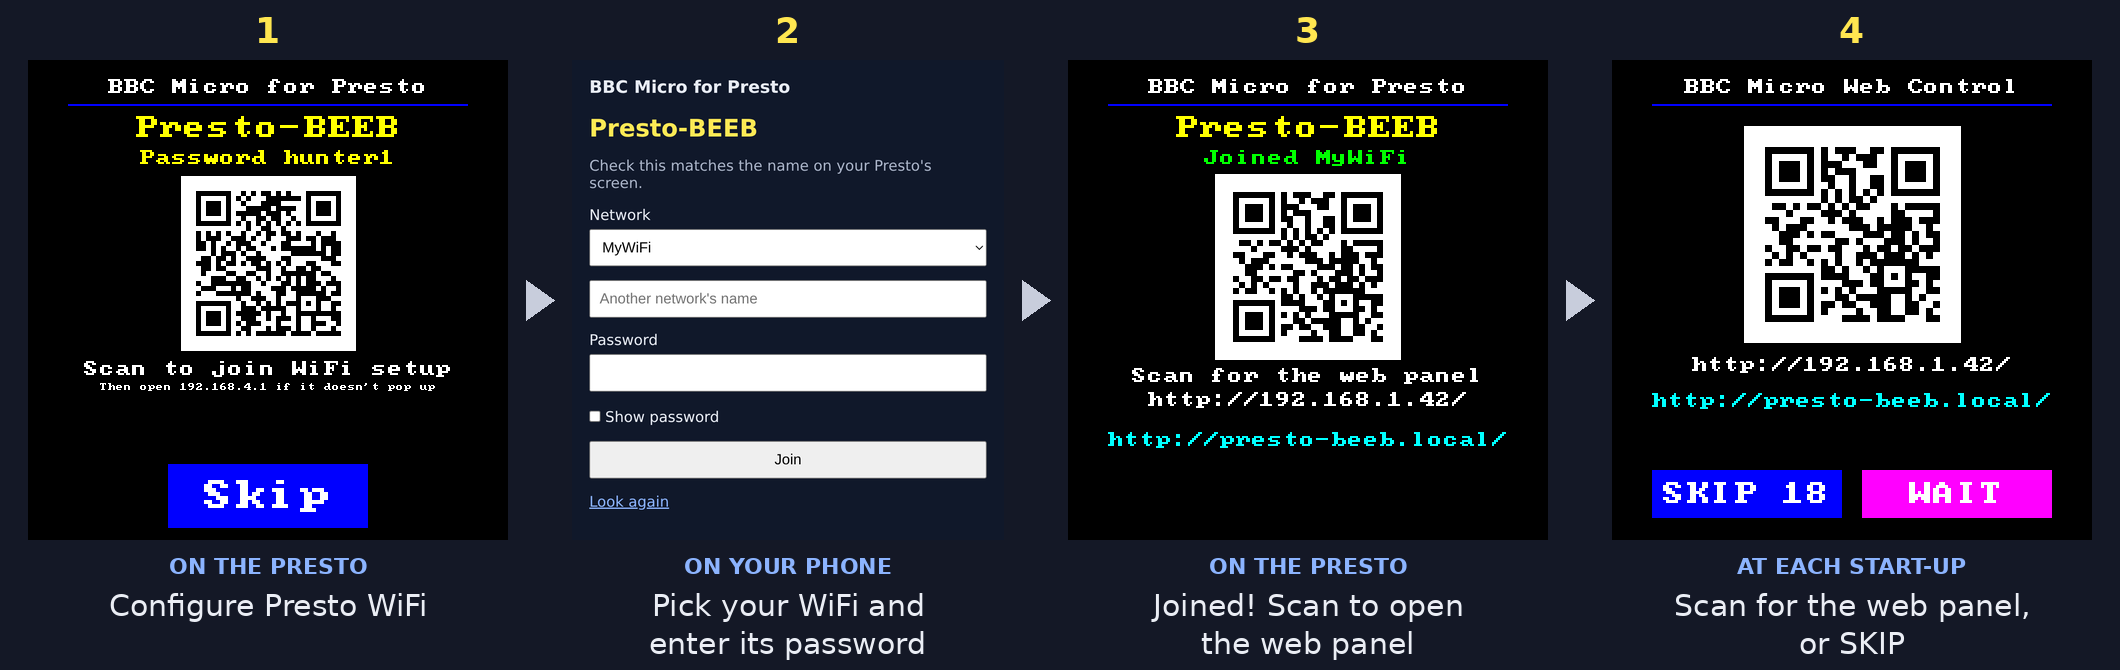
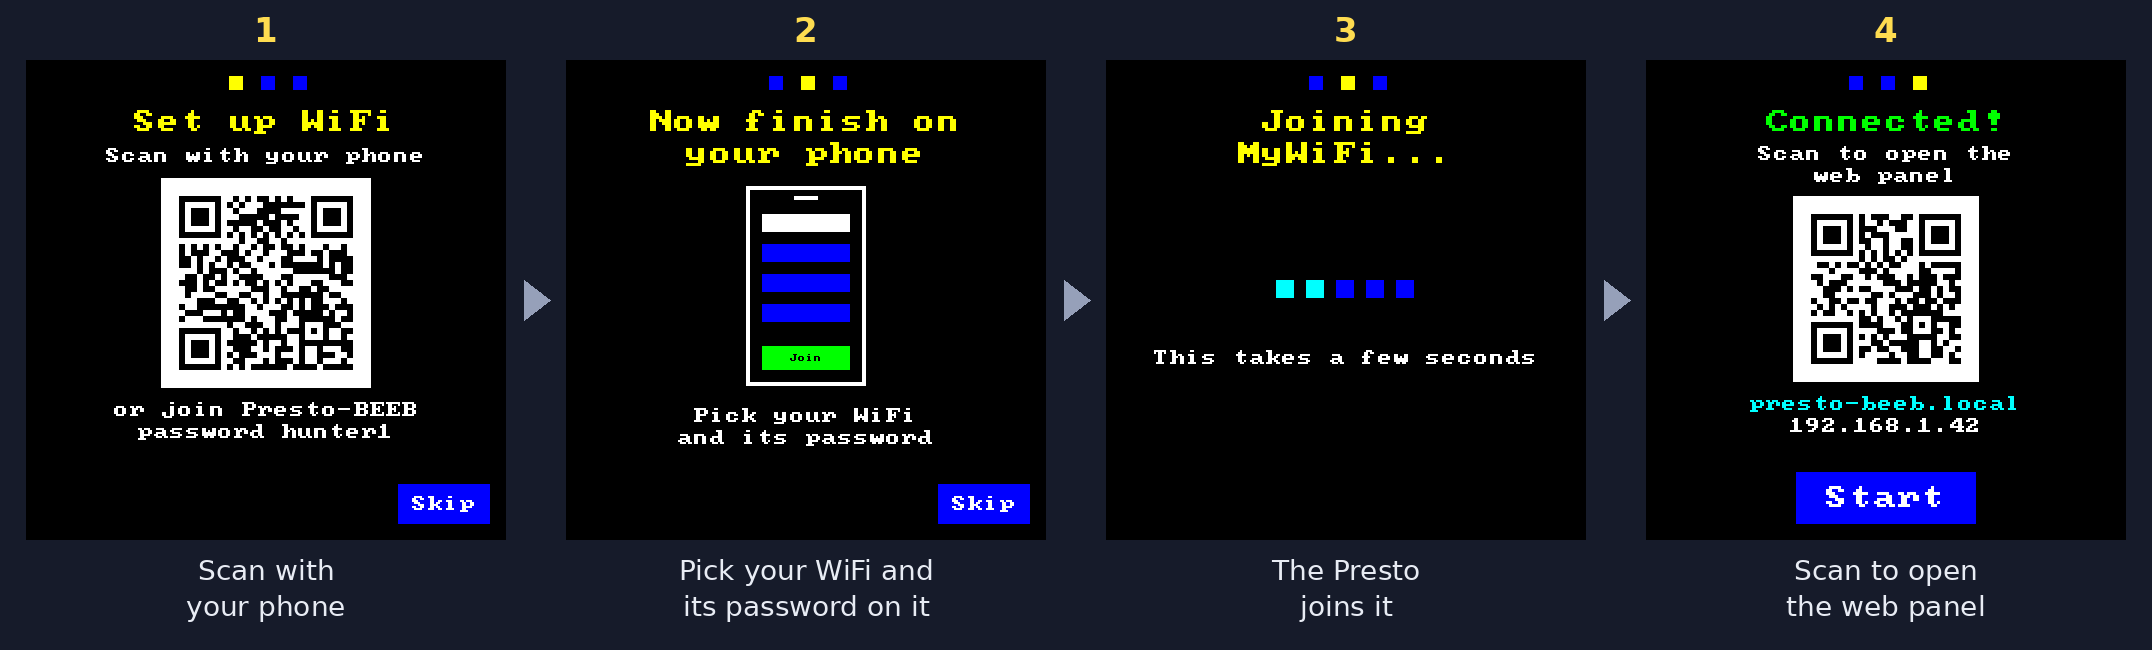
README: the WiFi setup strip is the Presto's four setup screens; power on joins as setup does

diff --git a/README.md b/README.md
@@ -44,17 +44,17 @@ repository doesn't contain them (`setup.sh` downloads them when you build).
 
 ### First power-on: WiFi
 
-![WiFi setup on a phone, in four steps](docs/presto/wifi-setup-strip.png)
+![WiFi setup on the Presto, in four steps: scan, finish on your phone, joining, connected](docs/presto/wifi-setup-strip.png)
 
 No WiFi wanted? Tap **Skip**. The web panel is at **http://presto-xxxx.local/**, the `xxxx` being on
 the Presto's screen.
 
 ### More about WiFi
 
-At power on the Presto shows a loading screen while it joins WiFi, then the web control panel's
-address (its QR code, IP and `presto-xxxx.local`, the Presto's own name from the end of its board ID)
-for 20 seconds (counting down on its **SKIP**; **WAIT** keeps it up until **OK**), and then starts the
-BBC Micro, so it's seen booting from the start. To see the address again later, hold a finger still in
+At power on the Presto shows its loading screen for a moment, then joins WiFi as in setup (**Joining**,
+then **Connected!**), showing the web panel's address (its QR code, IP and `presto-xxxx.local`, the
+Presto's own name from the end of its board ID) for 20 seconds (counting down on its **SKIP**; **WAIT**
+keeps it up until **OK**), and then starts the BBC Micro, so it's seen booting from the start. To see the address again later, hold a finger still in
 the top-left corner of the screen for 3 seconds.
 
 If the saved network's password is wrong, the Presto goes straight into WiFi setup (below), saying so.
